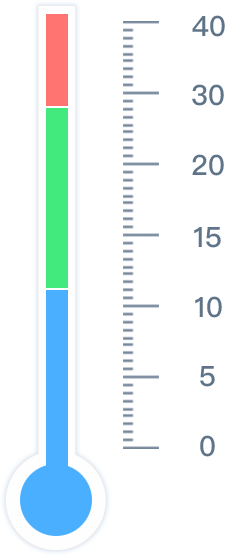
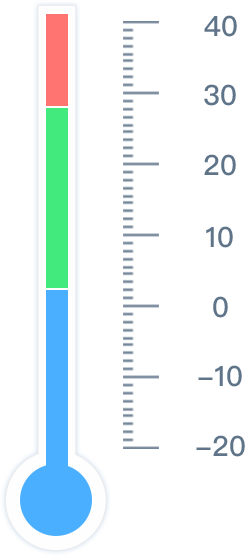
update temperature component

diff --git a/src/temperature/Temperature.jsx b/src/temperature/Temperature.jsx
@@ -5,17 +5,18 @@ import arrow from '../tvoc/arrow.png';
 
 class Temperature extends PureComponent {
   getTemperature(value) {
-    if(value < 0) {
-      value = 0;
+    if(value < -20) {
+      value = -20;
     }
     if(value > 40) {
       value = 40;
     }
-    if(value <= 20) {
-      return value * 428 / 6 * 4 / 20;
-    } else {
-      return ((value - 20 ) * 428 / 6 * 2 / 20 + 428 / 6 * 4); 
-    }
+    // if(value <= 20) {
+    //   return value * 428 / 6 * 4 / 20;
+    // } else {
+    //   return ((value - 20 ) * 428 / 6 * 2 / 20 + 428 / 6 * 4); 
+    // }
+    return (value + 20) * 428 / 6 / 10;
   }
 
   render() {
@@ -25,7 +26,7 @@ class Temperature extends PureComponent {
       value = 0
     } = this.props;
     const a = height / 556;
-    const width = 225 * a;
+    const width = 245 * a;
     const styles = {
       width: width + 85 * a,
       height,
@@ -43,10 +44,10 @@ class Temperature extends PureComponent {
     return (
       <div className="temperature" style={styles}>
         <div className="tips" style={tipStyle}>
-          <div>{tips[3] || '防暑'}</div>
-          <div>{tips[2] || '温度舒适'}</div>
-          <div>{tips[1] || '加衣服'}</div>
-          <div>{tips[0] || '天冷'}</div>
+          <div>{tips[3] || 'Hot'}</div>
+          <div>{tips[2] || 'Cosy'}</div>
+          <div>{tips[1] || 'Cold'}</div>
+          <div>{tips[0] || 'Freezing'}</div>
         </div>
         <img className="arrow" src={arrow} style={arrowStyle}/>
       </div>

diff --git a/example/index.js b/example/index.js
@@ -3,4 +3,4 @@ import {render} from 'react-dom';
 import Test, {PM, Humidity, Electricity, Tvoc, Temperature} from '../src/EnvironmentChart.jsx';
 // import Test, {PM, Humidity, Electricity, Tvoc, Temperature} from '../dist/EnvironmentChart.js';
 
-render(<Humidity height={126} value={0.6}/>, document.getElementById('app'));
+render(<Temperature value={24} height={278}/>, document.getElementById('app'));

diff --git a/README.md b/README.md
@@ -73,7 +73,7 @@ import ReactEnvironmentChart from 'react-environment-chart';
 
 ### Temperature
 * height: number, option. specify temperature size; default: 556
-* tips: array, option. specity left text; default: ['天冷', '加衣服', '温度舒适', '防暑']
+* tips: array, option. specity left text; default: ['Freezing', 'Cold', 'Cosy', 'Hot']
 * value: number, option. temperature vlaue
 * using
   ```javascript
@@ -82,4 +82,4 @@ import ReactEnvironmentChart from 'react-environment-chart';
   ```
 * eg:
 
-![Temperature](https://static.oschina.net/uploads/img/201712/11114124_PwLJ.png)
+![Temperature](https://static.oschina.net/uploads/img/201712/25144919_rbir.png)
